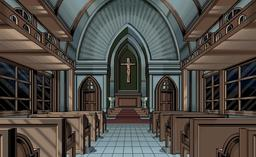
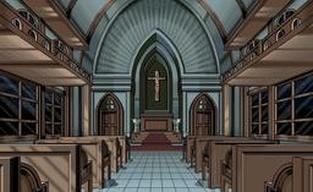
Smabbin and resized assets

diff --git a/index.html b/index.html
@@ -1281,6 +1281,28 @@ button:disabled {
 
 </div>
 
+<div class="file" data-name="aao bgs/unk_0128.png">
+
+<a href="https://trybien.github.io/AAO%20BGs/unk_0128.png">https://trybien.github.io/AAO%20BGs/unk_0128.png</a>
+
+<button
+    class="copyBtn"
+    onclick="copyUrl('https://trybien.github.io/AAO%20BGs/unk_0128.png', this)">
+    Copy URL
+</button>
+
+<details>
+<summary>Preview Image</summary>
+
+<img
+    src="https://trybien.github.io/AAO%20BGs/unk_0128.png"
+    loading="lazy"
+    alt="AAO BGs/unk_0128.png">
+
+</details>
+
+</div>
+
 <div class="file" data-name="aao bgs/unk_0452.png">
 
 <a href="https://trybien.github.io/AAO%20BGs/unk_0452.png">https://trybien.github.io/AAO%20BGs/unk_0452.png</a>

diff --git a/AAO BGs/Background_resizer.py b/AAO BGs/Background_resizer.py
@@ -7,7 +7,8 @@ IMAGE_DIR = Path("/home/trybien/Documents/GitHub/trybien.github.io/AAO BGs")
 # Supported image extensions
 SUPPORTED_EXTENSIONS = {".png", ".jpg", ".jpeg", ".bmp", ".gif", ".tiff", ".webp"}
 
-TARGET_WIDTH = 256
+MIN_WIDTH = 256
+MIN_HEIGHT = 192
 
 print(IMAGE_DIR)
 print(IMAGE_DIR.exists())
@@ -21,19 +22,36 @@ for image_path in IMAGE_DIR.iterdir():
         with Image.open(image_path) as img:
             width, height = img.size
 
-            if width == TARGET_WIDTH:
-                print(f"Skipping {image_path.name} (already {TARGET_WIDTH}px wide)")
+            # Skip if image already satisfies both minimum dimensions
+            if width >= MIN_WIDTH and height >= MIN_HEIGHT:
+                print(
+                    f"Skipping {image_path.name} "
+                    f"(already {width}x{height})"
+                )
                 continue
 
-            # Calculate proportional height
-            new_height = int(height * (TARGET_WIDTH / width))
+            # Determine the scale needed to satisfy both minimums
+            scale = max(
+                MIN_WIDTH / width,
+                MIN_HEIGHT / height,
+                1
+            )
 
-            resized = img.resize((TARGET_WIDTH, new_height), Image.Resampling.LANCZOS)
+            new_width = round(width * scale)
+            new_height = round(height * scale)
+
+            resized = img.resize(
+                (new_width, new_height),
+                Image.Resampling.LANCZOS
+            )
 
             # Save over the original
             resized.save(image_path)
 
-            print(f"Resized {image_path.name}: {width}x{height} -> {TARGET_WIDTH}x{new_height}")
+            print(
+                f"Resized {image_path.name}: "
+                f"{width}x{height} -> {new_width}x{new_height}"
+            )
 
     except Exception as e:
         print(f"Failed to process {image_path.name}: {e}")
